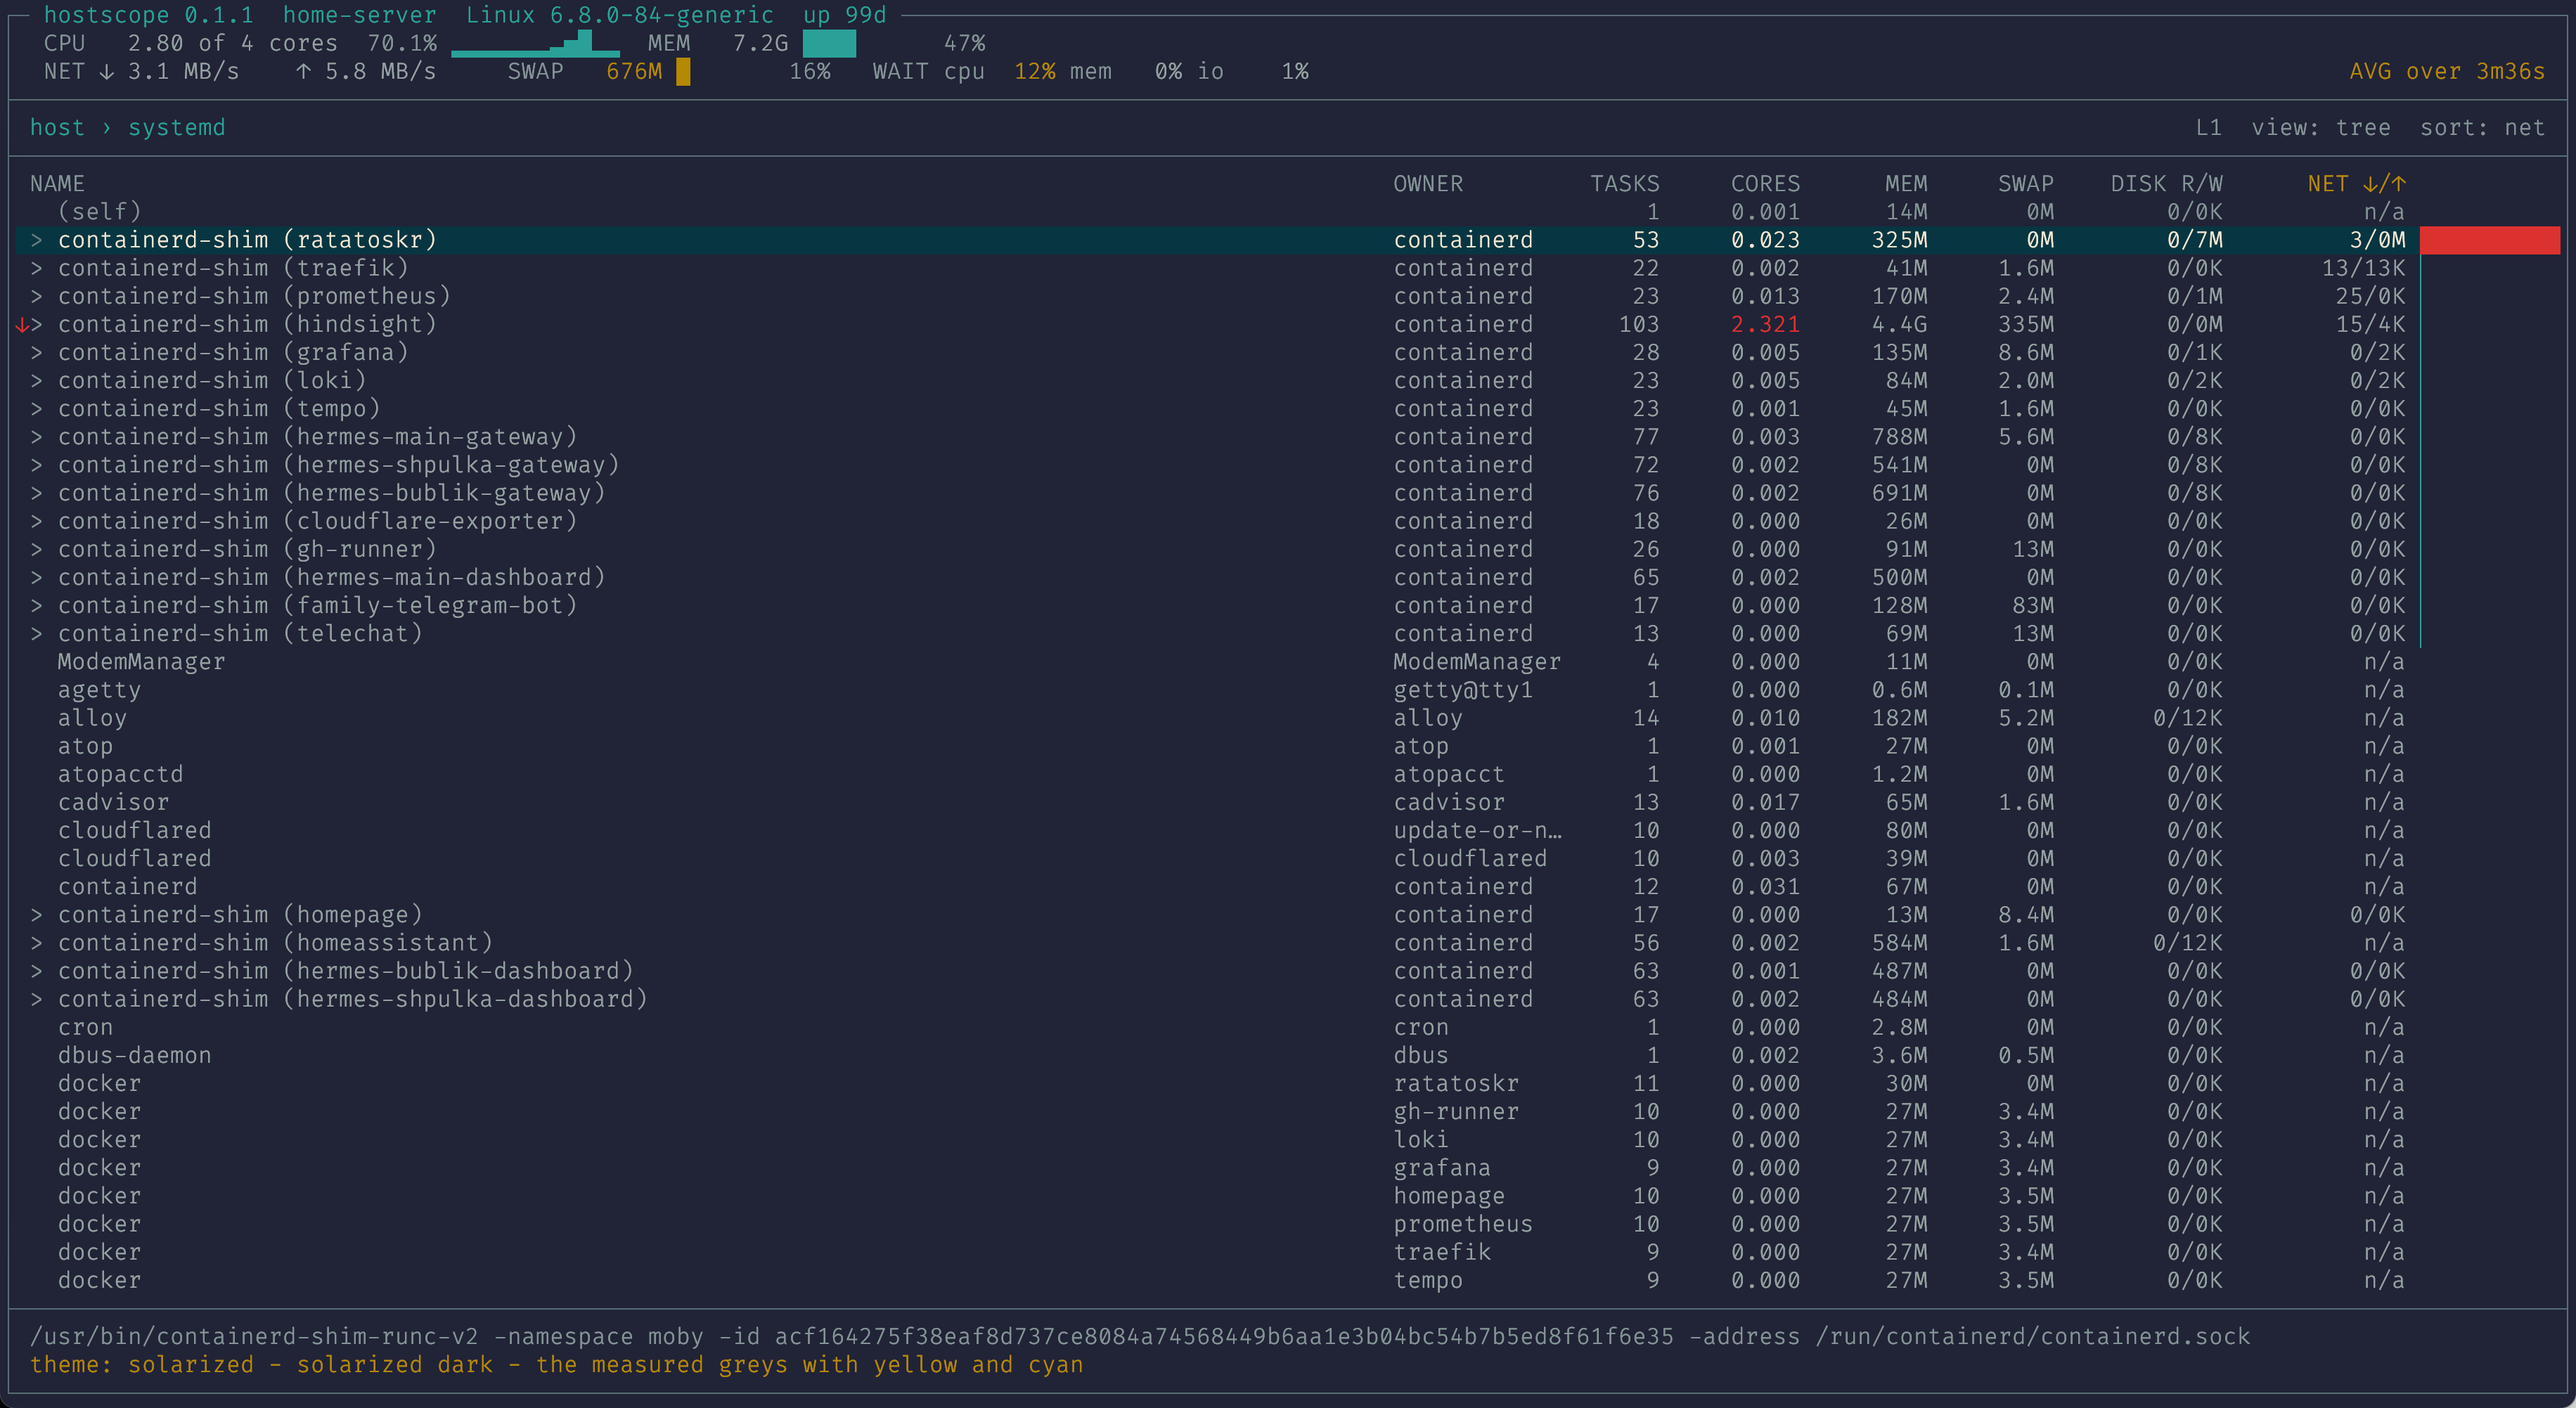
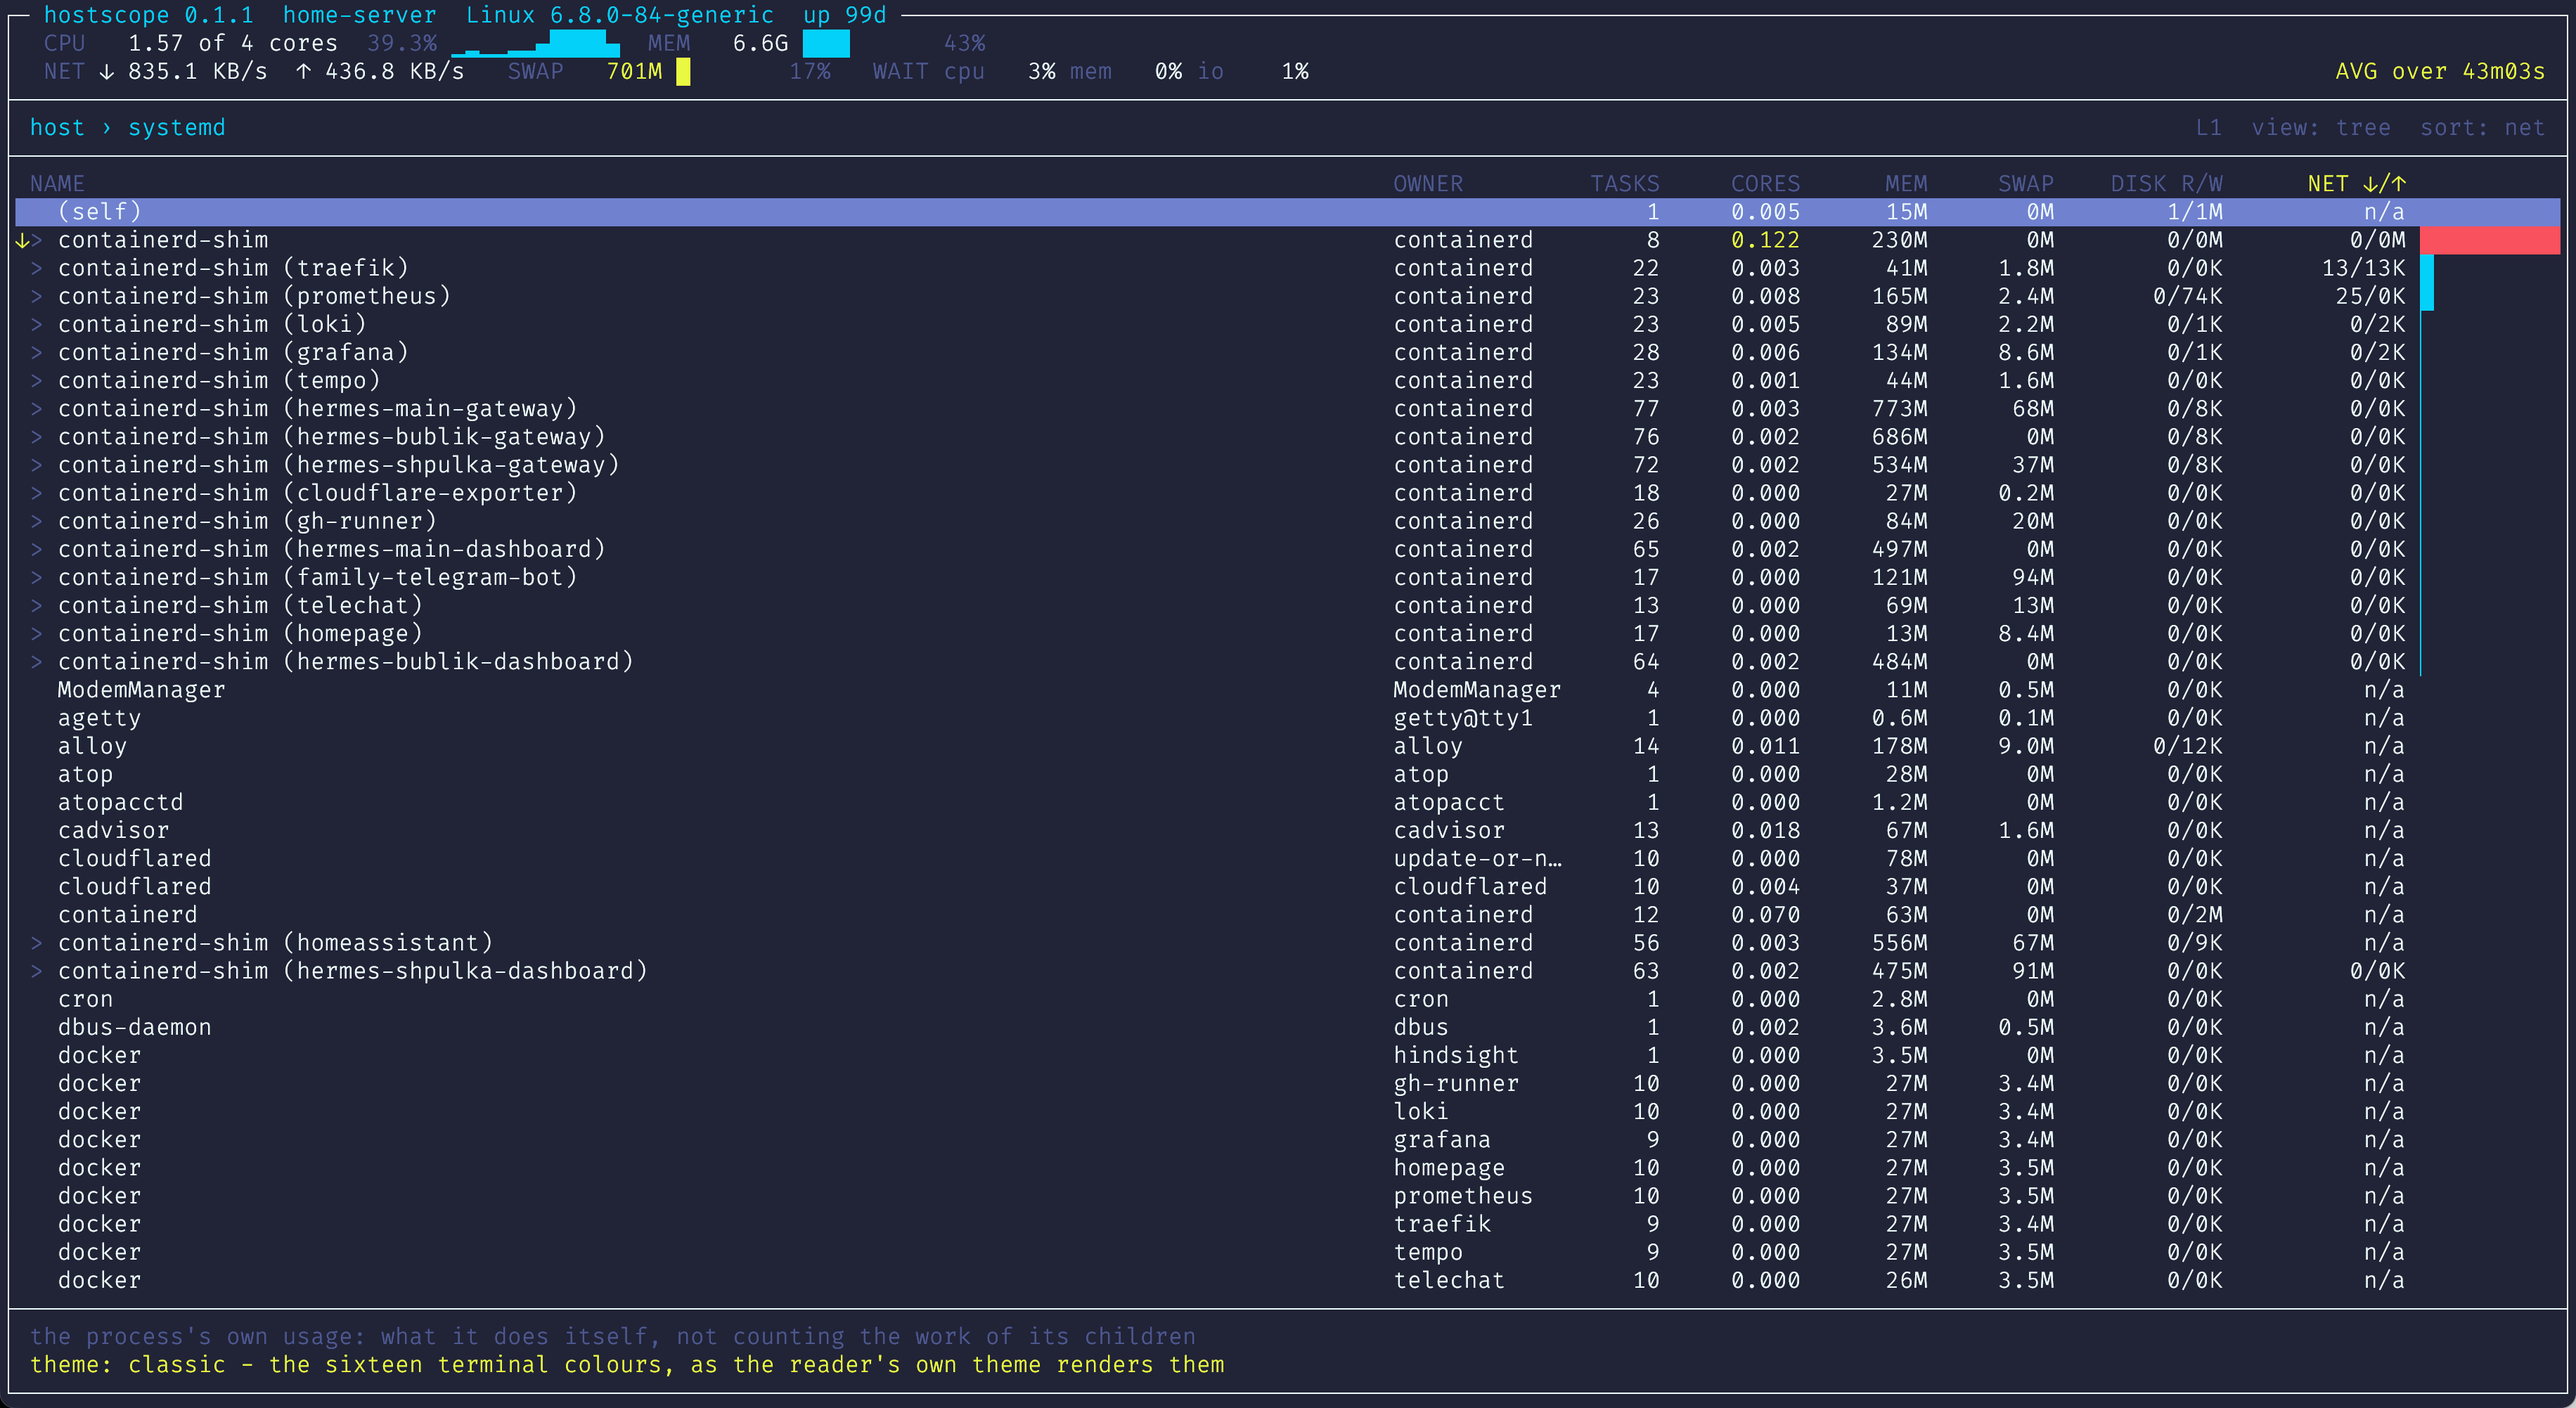
docs: a help for the reader who wants to run this, not work on it
The README is written from --help, so every verification hook stood on
the front page: --proc-root, --cgroup-root, the three dumps, --keys,
--size and --log. Someone looking for the process eating their host has
no use for --dump-style. They parse exactly as before and section 4 of
docs/testing.md documents each one and what it proves - that list is now
the only place they are written down.

What stays is what a runner needs: --tick opens the interval that - and
+ then move, --docker-socket points at a socket that is not in the usual
place, --no-etc-passwd is a privacy switch, --theme picks the palette.
Five options instead of thirteen. The paragraph about dumps going to
standard output went with them.

A test holds both halves of the rule: no hook in the help, and none of
those four swept out with them.

The tree screenshot is the one taken on 2026-09-02, in the classic
palette. The card, which is where the key line is visible, is unchanged.

diff --git a/src/cli.rs b/src/cli.rs
@@ -1,6 +1,13 @@
 //! Command line. Besides the ordinary options it carries the verification
 //! hooks of FR-17: substitution of data sources, dumps of the model and of the
-//! frame, a key program, a fixed tick and a log to file.
+//! frame, a key program and a log to file.
+//!
+//! They parse here but they are not in `USAGE`. The help is what the README is
+//! written from, and the README is for someone who wants to run this, not for
+//! someone who works on it - a reader looking for a process eating the host
+//! does not need `--dump-style`. Section 4 of `docs/testing.md` documents each
+//! hook and what it proves, and `tests/documents.rs` fails if one gets back
+//! into the help.
 
 use std::path::PathBuf;
 
@@ -14,19 +21,7 @@ usage: hostscope [options]
 
   --tick MS               the interval to start at, in milliseconds
                           (default 3000; - and + move it while running)
-  --cgroup-root DIR       read a captured snapshot instead of /sys/fs/cgroup
-  --proc-root DIR         read a captured snapshot instead of /proc
   --docker-socket PATH    the docker socket, or 'none' to disable enrichment
-  --dump-model json       print the tree model as numbers to stdout and exit
-  --dump-frame N          render N frames as text to stdout and exit
-  --dump-style N          the same N frames, each followed by a map of the
-                          same shape naming the role of every cell: . plain,
-                          c calm, u unusual, a alarm, b bar, s selected,
-                          m matched
-  --keys \"Right a Esc\"    run a key program and stop
-  --size WxH              frame size for --dump-frame and --dump-style
-                          (default 100x30)
-  --log FILE              write the log to FILE; never to the terminal
   --no-etc-passwd         do not read /etc/passwd; the OWNER column and the
                           card then show the uid instead of the login name
   --theme NAME            the palette to open in: classic, panel, gruvbox,
@@ -35,9 +30,6 @@ usage: hostscope [options]
                           the one to open in, and --theme out-votes it)
   -h, --help              this text
   -V, --version           version
-
-Dumps go to standard output. FR-10 forbids writing outside the log named on
-the command line, and a verification hook is no reason to make an exception.
 
 Besides /proc and /sys/fs/cgroup the application opens one more file for data:
 /etc/passwd, once at start, to turn the uid of a login session into the name

diff --git a/tests/documents.rs b/tests/documents.rs
@@ -41,6 +41,39 @@ fn flatten(s: &str) -> String {
     s.split_whitespace().collect::<Vec<_>>().join(" ")
 }
 
+/// The help is for someone who wants to run the application, not for someone
+/// who works on it. The hooks of FR-17 still work and are documented where a
+/// reader who needs them already is - section 4 of `docs/testing.md`. Keeping
+/// them out of the help keeps them out of the README too, because the README
+/// is written from the help.
+#[test]
+fn the_help_keeps_the_verification_hooks_out() {
+    let help = run(&["--help"]);
+    for hook in [
+        "--proc-root",
+        "--cgroup-root",
+        "--dump-model",
+        "--dump-frame",
+        "--dump-style",
+        "--keys",
+        "--size",
+        "--log",
+    ] {
+        assert!(
+            !help.contains(hook),
+            "--help names {hook}, a verification hook; section 4 of docs/testing.md is where those live"
+        );
+    }
+    // The other half of the same rule: what a reader who only wants to run it
+    // does need must not be swept out with them.
+    for option in ["--tick", "--docker-socket", "--no-etc-passwd", "--theme"] {
+        assert!(
+            help.contains(option),
+            "--help no longer names {option}, which someone running the application needs"
+        );
+    }
+}
+
 /// A screenshot that has been renamed or dropped leaves a broken picture on the
 /// front page of the repository, and nothing else notices: the file is not
 /// compiled, not linted, and read by no other test. This walks the links the

diff --git a/docs/testing.md b/docs/testing.md
@@ -166,6 +166,13 @@ screen, and that cannot tell an arithmetic error from a layout error.
 They are now in the requirements as FR-17 (operator decision
 2026-08-14); here is how they are used.
 
+This list is the only place they are written down. `--help` names the
+options someone running the application needs and nothing else (operator
+decision 2026-09-02), because the README is generated from that help and
+a reader looking for the process eating their host has no use for
+`--dump-style`. The hooks still parse, and `tests/documents.rs` fails if
+one of them turns up in the help again.
+
 - `--cgroup-root DIR` and `--proc-root DIR` - read a captured snapshot
   instead of the live `/sys/fs/cgroup` and `/proc`. Gives repeatable
   tests with no live host involved.
@@ -758,7 +765,7 @@ linter catches layout, not meaning.
 | D-26 | Invariant 8: the `OWNER` column is demanded on every frame, no longer only where it happens to be drawn |
 | D-30 | V1 over a snapshot holding a shim with one child in a container: the row names the container in parentheses and keeps its own owner, a row with two containers under it names neither, and the filter typed with the container name finds the row that leads into it |
 | D-31 | V1 over a snapshot laid out as a Kubernetes node: a shim with the pod sandbox and the workload container under it names the pod, a shim whose two children sit in different pods names nothing, and the parser reads the pod out of both cgroup driver layouts |
-| Section 11 | `tests/documents.rs`: what `--help` prints stands in `README.md` word for word, so the description of the screen has one source and `make readme` is what moves it |
+| Section 11 | `tests/documents.rs`: every block of what `--help` prints stands in `README.md` - a table as it is written, a paragraph word for word - so the description of the screen has one source and `make readme` is what moves it. The same test holds the hooks of section 4 out of `--help`, and opens every picture the README shows |
 | D-32 | V1 over a snapshot with the files, limits and PSS of a process: the card heads its two figure columns once, starts every `now` and every `avg` at the same cell, and gives `own virtual`, `own PSS`, `sockets`, `nofile` and `nproc` a label each |
 | D-33 | V1 over a snapshot with a command line longer than the terminal: `pid`, `parent`, `user`, `threads` and `started` each have a label, the command wraps under its own label with nothing lost, and invariant 1 holds on every wrapped line. At 70 and 60 cells the explanations beside the figures and the cgroup path are whole once the wrapped lines are joined, and a pid the room cannot hold is marked as cut rather than broken |
 | D-34 | V1 over a snapshot: the card of a process whose `VmSwap` says 2048 kB shows `own swap  2.0M`, and the card of a process with no `status` file shows the row with `n/a` rather than leaving it out |

diff --git a/README.md b/README.md
@@ -56,19 +56,7 @@ usage: hostscope [options]
 
   --tick MS               the interval to start at, in milliseconds
                           (default 3000; - and + move it while running)
-  --cgroup-root DIR       read a captured snapshot instead of /sys/fs/cgroup
-  --proc-root DIR         read a captured snapshot instead of /proc
   --docker-socket PATH    the docker socket, or 'none' to disable enrichment
-  --dump-model json       print the tree model as numbers to stdout and exit
-  --dump-frame N          render N frames as text to stdout and exit
-  --dump-style N          the same N frames, each followed by a map of the
-                          same shape naming the role of every cell: . plain,
-                          c calm, u unusual, a alarm, b bar, s selected,
-                          m matched
-  --keys "Right a Esc"    run a key program and stop
-  --size WxH              frame size for --dump-frame and --dump-style
-                          (default 100x30)
-  --log FILE              write the log to FILE; never to the terminal
   --no-etc-passwd         do not read /etc/passwd; the OWNER column and the
                           card then show the uid instead of the login name
   --theme NAME            the palette to open in: classic, panel, gruvbox,
@@ -78,10 +66,6 @@ usage: hostscope [options]
   -h, --help              this text
   -V, --version           version
 ```
-
-Dumps go to standard output. FR-10 forbids writing outside the log named
-on the command line, and a verification hook is no reason to make an
-exception.
 
 Besides /proc and /sys/fs/cgroup the application opens one more file for
 data: /etc/passwd, once at start, to turn the uid of a login session

diff --git a/docs/requirements.md b/docs/requirements.md
@@ -2157,6 +2157,11 @@ worth carrying next to the requirements:
   and word for word for a paragraph. What the README says by hand is what
   the help does not cover: which hosts it reads, why the tools that
   already exist were not enough, how it is built and checked.
+  The hooks of FR-17 are not in the help and so not in the README either
+  (operator decision 2026-09-02): they parse, and section 4 of
+  `docs/testing.md` is where they are written down. A reader looking for
+  the process eating their host has no use for `--dump-style`, and the
+  same test that carries the help into the README keeps them out of it.
 - The code is under git.
 
 ### Mandatory rules of the screen
